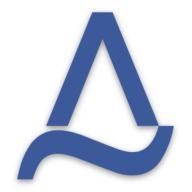
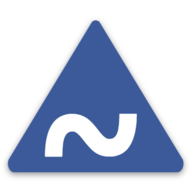
update favoicon

Changed region(s): [[0.0312, 0.0312, 0.9688, 0.9688]]

diff --git a/html_code.html b/html_code.html
@@ -3,6 +3,6 @@
 <link rel="icon" type="image/png" sizes="16x16" href="/favicon-16x16.png">
 <link rel="manifest" href="/site.webmanifest">
 <link rel="mask-icon" href="/safari-pinned-tab.svg" color="#3c5a99">
-<meta name="msapplication-TileColor" content="#3c5a99">
+<meta name="msapplication-TileColor" content="#ffffff">
 <meta name="theme-color" content="#ffffff">
 

diff --git a/publications/index.md b/publications/index.md
@@ -14,59 +14,59 @@ Desheng Hu, Shan Jiang, Ronald E Robertson, and Christo Wilson
 
 * **Who’s the Guinea Pig? Investigating Online A/B/n Tests in-the-Wild**  
 Shan Jiang, John Martin, and Christo Wilson  
-<img src="../logo/c.png" width="16" height="16"> In *Proceedings of the 2019 ACM Conference on Fairness, Accountability, and Transparency (**FAT\* 2019**)*, Atlanta, GA, USA, Jan 2019  
+<img src="../logo/c.png" width="16"> In *Proceedings of the 2019 ACM Conference on Fairness, Accountability, and Transparency (**FAT\* 2019**)*, Atlanta, GA, USA, Jan 2019  
 \[ [pdf](fat19_paper.pdf){:target="_blank"} \| [bib](fat19_bib.txt){:target="_blank"} \| [video](https://www.youtube.com/watch?v=ZxknxkHiIkM){:target="_blank"} \| [press](https://www.fastcompany.com/90306916/were-all-being-manipulated-by-a-b-testing-all-the-time){:target="_blank"} \] acceptance rate: 39/162=24.1%
 
 * **Linguistic Signals under Misinformation and Fact-Checking: Evidence from User Comments on Social Media**  
 Shan Jiang, and Christo Wilson  
-<img src="../logo/j.png" width="16" height="16"> *Proceedings of the ACM: Human-Computer Interaction (**PACMHCI**)*, 2(CSCW), Nov 2018  
-<img src="../logo/c.png" width="16" height="16"> Presented at *the 21st ACM Conference on Computer-Supported Cooperative Work and Social Computing (**CSCW 2018**)*, Jersey City, NJ, USA, Nov 2018  
+<img src="../logo/j.png" width="16"> *Proceedings of the ACM: Human-Computer Interaction (**PACMHCI**)*, 2(CSCW), Nov 2018  
+<img src="../logo/c.png" width="16"> Presented at *the 21st ACM Conference on Computer-Supported Cooperative Work and Social Computing (**CSCW 2018**)*, Jersey City, NJ, USA, Nov 2018  
 \[ [pdf](cscw18a_paper.pdf){:target="_blank"} \| [bib](cscw18a_bib.txt){:target="_blank"} \| [blog](https://medium.com/acm-cscw/people-get-touchy-about-misinformation-and-about-the-truth-too-9930563d96d8){:target="_blank"} \| [data](../resources/#misinformation){:target="_blank"} \| [slides](cscw18a_slides.pdf){:target="_blank"} \| [press](https://hopenothate.com/2018/10/21/extremism-is-on-the-ballot){:target="_blank"} \] acceptance rate: 185/722=25.6%
 
 * **Auditing Partisan Audience Bias within Google Search**  
 Ronald E Robertson, Shan Jiang, Kenneth Joseph, Lisa Friedland, David Lazer, and Christo Wilson  
-<img src="../logo/j.png" width="16" height="16"> *Proceedings of the ACM: Human-Computer Interaction (**PACMHCI**)*, 2(CSCW), Nov 2018  
-<img src="../logo/c.png" width="16" height="16"> Presented at *the 21st ACM Conference on Computer-Supported Cooperative Work and Social Computing (**CSCW 2018**)*, Jersey City, NJ, USA, Nov 2018  
+<img src="../logo/j.png" width="16"> *Proceedings of the ACM: Human-Computer Interaction (**PACMHCI**)*, 2(CSCW), Nov 2018  
+<img src="../logo/c.png" width="16"> Presented at *the 21st ACM Conference on Computer-Supported Cooperative Work and Social Computing (**CSCW 2018**)*, Jersey City, NJ, USA, Nov 2018  
 \[ [pdf](cscw18b_paper.pdf){:target="_blank"} \| [bib](cscw18b_bib.txt){:target="_blank"} \| [supplementary](cscw18b_supplementary.pdf){:target="_blank"} \| [blog](https://medium.com/acm-cscw/is-it-the-algorithms-or-us-96d966aebbdb){:target="_blank"} \| [data](../resources/#partisan-bias){:target="_blank"} \] **honorable mention: 30/1,106=2.7%** \| acceptance rate: 185/722=25.6%  
 
 * **Surge Pricing on a Service Platform under Spatial Spillovers: Evidence from Uber**  
 Kyungmin Brad Lee, Marcus Bellamy, Nitin Joglekar, Shan Jiang, and Christo Wilson  
-<img src="../logo/u.png" width="16" height="16"> Unreviewed working paper, available at *SSRN*, Oct 2018  
-<img src="../logo/a.png" width="16" height="16"> Abstract presented at *the 79th Annual Meeting of the Academy of Management (**AOM 2019**)*, Boston, MA, USA, Aug 2019  
+<img src="../logo/u.png" width="16"> Unreviewed working paper, available at *SSRN*, Oct 2018  
+<img src="../logo/a.png" width="16"> Abstract presented at *the 79th Annual Meeting of the Academy of Management (**AOM 2019**)*, Boston, MA, USA, Aug 2019  
 \[ [pdf](ssrn18_paper.pdf){:target="_blank"} \| [bib](ssrn18_bib.txt){:target="_blank"} \| [ssrn](https://ssrn.com/abstract=3261811){:target="_blank"} \]
 
 * **On Ridesharing Competition and Accessibility: Evidence from Uber, Lyft, and Taxi**  
 Shan Jiang, Le Chen, Alan Mislove, and Christo Wilson  
-<img src="../logo/c.png" width="16" height="16"> In *Proceedings of the 2018 Web Conference (**WWW 2018**)*, Lyon, France, Apr 2018  
+<img src="../logo/c.png" width="16"> In *Proceedings of the 2018 Web Conference (**WWW 2018**)*, Lyon, France, Apr 2018  
 \[ [pdf](www18_paper.pdf){:target="_blank"} \| [bib](www18_bib.txt){:target="_blank"} \| [slides](www18_slides.pdf){:target="_blank"} \] acceptance rate: 171/1,155=14.8%
 
 * **TNCs Today: A Profile of San Francisco Transportation Network Company Activity**  
 Joe Castiglione, Tilly Chang, Drew Cooper, Jeff Hobson, Warren Logan, Eric Young, Billy Charlton, Christo Wilson, Alan Mislove, Le Chen, and Shan Jiang  
-<img src="../logo/r.png" width="16" height="16"> *San Francisco County Transportation Authority Report*, Jun 2017  
+<img src="../logo/r.png" width="16"> *San Francisco County Transportation Authority Report*, Jun 2017  
 \[ [pdf](sfcta17_paper.pdf){:target="_blank"} \| [bib](sfcta17_bib.txt){:target="_blank"} \| [slides](sfcta17_slides.pdf){:target="_blank"} \| [visualization](https://tncstoday.sfcta.org){:target="_blank"} \]
 
 * **Conflicts in Overlay Environments: Inefficient Equilibrium and Incentive Mechanism**  
 Jianxin Liao, Jun Gong, Shan Jiang, Tonghong Li, and Jingyu Wang  
-<img src="../logo/j.png" width="16" height="16"> *KSII Transactions on Internet and Information Systems (**TIIS**)*, 10(5), May 2016  
+<img src="../logo/j.png" width="16"> *KSII Transactions on Internet and Information Systems (**TIIS**)*, 10(5), May 2016  
 \[ [pdf](tiis16_paper.pdf){:target="_blank"} \| [bib](tiis16_bib.txt){:target="_blank"} \]
 
 * **Interactions among Overlays and Traffic Engineering: Equilibrium and Cooperation without Payment**  
 Shan Jiang, Jun Gong, Jingyu Wang, Jianxin Liao, and Tonghong Li  
-<img src="../logo/c.png" width="16" height="16"> In *Proceedings of the 2015 IEEE 58th Global Communications Conference (**GLOBECOM 2015**)*, San Diego, CA, USA, Dec 2015  
+<img src="../logo/c.png" width="16"> In *Proceedings of the 2015 IEEE 58th Global Communications Conference (**GLOBECOM 2015**)*, San Diego, CA, USA, Dec 2015  
 \[ [pdf](globecom15_paper.pdf){:target="_blank"} \| [bib](globecom15_bib.txt){:target="_blank"} \] acceptance rate: 915/2,614=35.0%
 
 * **Competitive Equilibrium and Stable Coalition in Overlay Environments**  
 Shan Jiang, Jianxin Liao, Jun Gong, Jingyu Wang, and Tonghong Li  
-<img src="../logo/c.png" width="16" height="16"> In *Proceedings of the 2015 IEEE 40th Conference on Local Computer Networks (**LCN 2015**)*, Clearwater Beach, FL, USA, Oct 2015  
+<img src="../logo/c.png" width="16"> In *Proceedings of the 2015 IEEE 40th Conference on Local Computer Networks (**LCN 2015**)*, Clearwater Beach, FL, USA, Oct 2015  
 \[ [pdf](lcn15_paper.pdf){:target="_blank"} \| [bib](lcn15_bib.txt){:target="_blank"} \] acceptance rate: 44/145=30.3%
 
 * **Combination Feature for Image Retrieval in the Distributed Datacenter**   
 Di Yang, Jianxin Liao, Qi Qi, Jingyu Wang, Haifeng Sun, and Shan Jiang  
-<img src="../logo/c.png" width="16" height="16"> In *Proceedings of the 2014 IEEE 20th International Conference on Parallel and Distributed Systems (**ICPADS 2014**)*, Hsinchu, Taiwan, Dec 2014  
+<img src="../logo/c.png" width="16"> In *Proceedings of the 2014 IEEE 20th International Conference on Parallel and Distributed Systems (**ICPADS 2014**)*, Hsinchu, Taiwan, Dec 2014  
 \[ [pdf](icpads14_paper.pdf){:target="_blank"} \| [bib](icpads14_bib.txt){:target="_blank"} \] acceptance rate: 96/322=29.8%  
   
   
   
-Rigorously reviewed: <img src="../logo/c.png" width="16" height="16"> Conference paper \| <img src="../logo/j.png" width="16" height="16"> Journal paper  
-Lightly reviewed: <img src="../logo/w.png" width="16" height="16"> Workshop paper \| <img src="../logo/a.png" width="16" height="16"> Abstract  
-Unreviewed: <img src="../logo/u.png" width="16" height="16"> Working paper \| <img src="../logo/r.png" width="16" height="16"> report  
+Rigorously reviewed: <img src="../logo/c.png" width="16"> Conference paper \| <img src="../logo/j.png" width="16"> Journal paper  
+Lightly reviewed: <img src="../logo/w.png" width="16"> Workshop paper \| <img src="../logo/a.png" width="16"> Abstract  
+Unreviewed: <img src="../logo/u.png" width="16"> Working paper \| <img src="../logo/r.png" width="16"> report  
